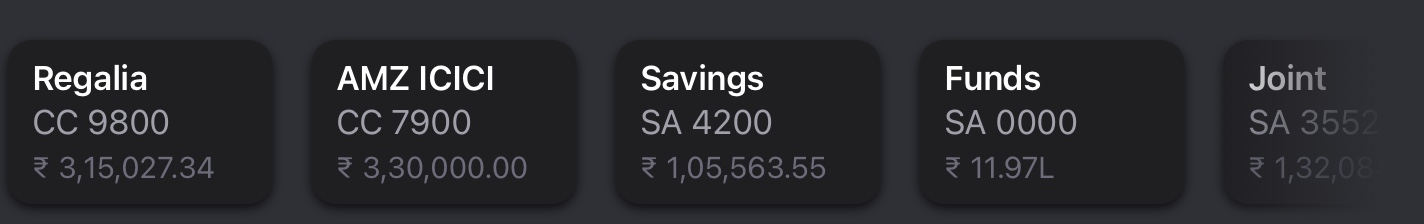
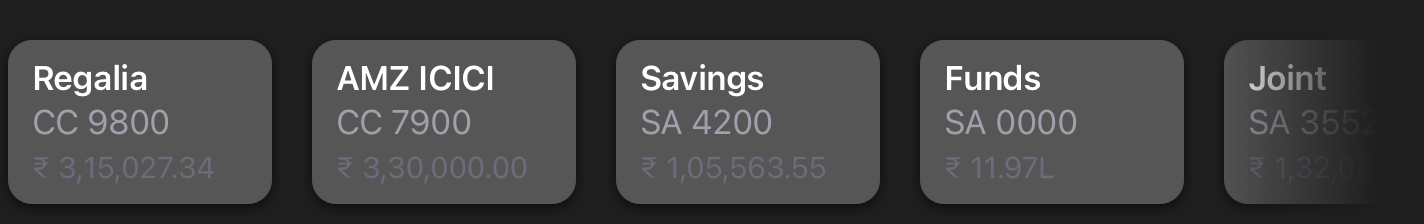
various
- updated deps
- updated assets
- improved colours (uses system colors)
- new post

diff --git a/_sass/lp/faq.scss b/_sass/lp/faq.scss
@@ -65,6 +65,10 @@ main {
       margin-bottom: 0.5rem;
     }
 
+    p + p {
+      margin-top: 1rem;
+    }
+
     p + h1, p + h2, p + h3, p + h4, p + h5, p + h6 {
       margin-top: 1.5rem;
     }
@@ -74,6 +78,20 @@ main {
       text-align: center;
       border-radius: 5pt;
       overflow: hidden;
+    }
+
+    .note {
+      background: Mark;
+      display: inline-block;
+      border-radius: 1rem;
+      opacity: 0.7;
+      margin-bottom: 1rem;
+
+      p {
+        color: MarkText;
+        padding: 0.25rem 0.5rem;
+        margin: 0;
+      }
     }
   }
 

diff --git a/_sass/variables.scss b/_sass/variables.scss
@@ -1,11 +1,12 @@
-:root {
-  --dz-brand-color: #5856D6;
+[data-theme="light"], :root:not([data-theme="dark"]) {
+  --dz-brand-color: AccentColor;
+  --dz-background-color: Canvas;
 }
 
 @media only screen and (prefers-color-scheme: dark) {
   :root, :root:not([data-theme=light]) {
-    --color: #EFEFF0;
-    --dz-background-color: #2F3035;
-    --dz-brand-color: #5E5CE6;
+    --color: CanvasText;
+    --dz-background-color: Canvas;
+    --dz-brand-color: AccentColor;
   }
 }

diff --git a/_includes/footer.html b/_includes/footer.html
@@ -1,7 +1,7 @@
 <footer>
   <div class="container">
     <div class="grid">
-      <p class="footnote">Pockity © 2019 - 2023 Dezine Zync Studios LLP. - All Rights Reserved.</p>
+      <p class="footnote">Pockity © 2019 - 2024 Dezine Zync Studios LLP. - All Rights Reserved.</p>
       <div>
         <!-- Spacer -->
       </div>

diff --git a/_posts/2024-01-11-creating-ledgers.md b/_posts/2024-01-11-creating-ledgers.md
@@ -1,0 +1,42 @@
+---
+title: Creating Ledgers
+layout: home
+style: landing
+permalink: /ledgers/creating/
+---
+
+## Creating Ledgers
+
+<picture>
+  <source media="(prefers-color-scheme: dark)" srcset="/assets/images/ledgers/header-dark.jpg 1x, /assets/images/ledgers/header-dark@2x.jpg 2x, /assets/images/ledgers/header-dark@3x.jpg 3x">
+  <img src="/assets/images/ledgers/header.jpg" srcset="/assets/images/ledgers/header@2x.jpg 2x, /assets/images/ledgers/header@3x.jpg 3x" width="712" height="84" alt="Graphical representation of Pockity's ledgers"/>
+</picture>
+
+<div class="note">
+  <p>Creating additional ledgers requires Pockity+</p>
+</div>
+
+#### Create a New Ledger on iOS:
+
+1. In the main ledgers list view, long press on the "New" button in the bottom toolbar. 
+2. From the context menu, tap on "New Ledger"
+3. Fill out the name for the ledger. A default currency, based on your iOS locale, will be assigned. You may change this if required. 
+4. Tap on "Done"
+
+#### Create a New Ledger on macOS:
+
+1. With Pockity.app focused, from the File Menu, select "New Ledger"
+2. In the form presented, fill out the name for the ledger. A default currency, based on your iOS locale, will be assigned. You may change this if required. 
+3. Click on "Create"
+
+When a new ledger is created, Pockity automatically configures the default list of categories. You may add or remove categories from the list. 
+
+No accounts are created when a new ledger is created, you will need to setup at least:
+- One account to create expense or reimbursement entries
+- Two accounts to create transfers 
+
+#### Useful Links
+
+- [Ledgers](/ledgers)
+- [Shared Ledgers](/ledgers/shared/)
+- [Ledger Currencies](/ledgers/currencies/)

diff --git a/_posts/2023-04-20-shared-ledgers.md b/_posts/2023-04-20-shared-ledgers.md
@@ -12,6 +12,10 @@ permalink: /ledgers/shared/
   <img src="/assets/images/ledgers/header.jpg" srcset="/assets/images/ledgers/header@2x.jpg 2x, /assets/images/ledgers/header@3x.jpg 3x" width="712" height="84" alt="Graphical representation of Pockity's ledgers"/>
 </picture>
 
+<div class="note">
+  <p>Sharing Ledgers requires Pockity+</p>
+</div>
+
 Shared Ledgers enable you to share all entries, account and categories data with anyone with an iOS device or Mac.
 
 ---
@@ -44,4 +48,5 @@ To manage permissions or collaborators for the share, repeat the above steps
 #### Useful Links
 
 - [Ledgers](/ledgers)
+- [Creating Ledgers](/ledgers/creating/)
 - [Ledger Currencies](/ledgers/currencies)
